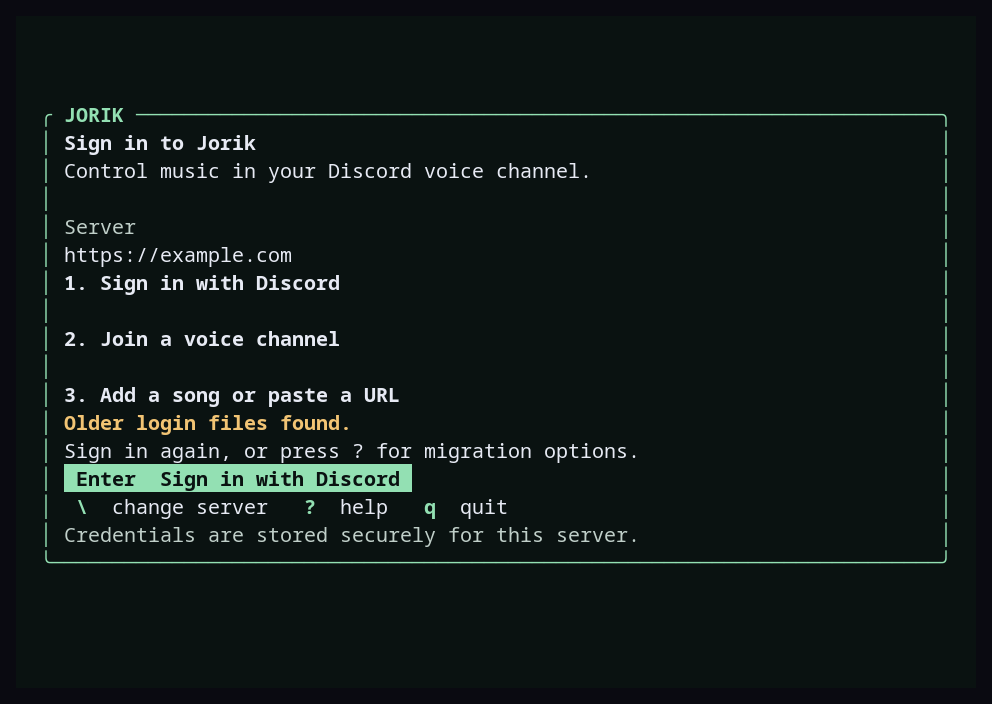
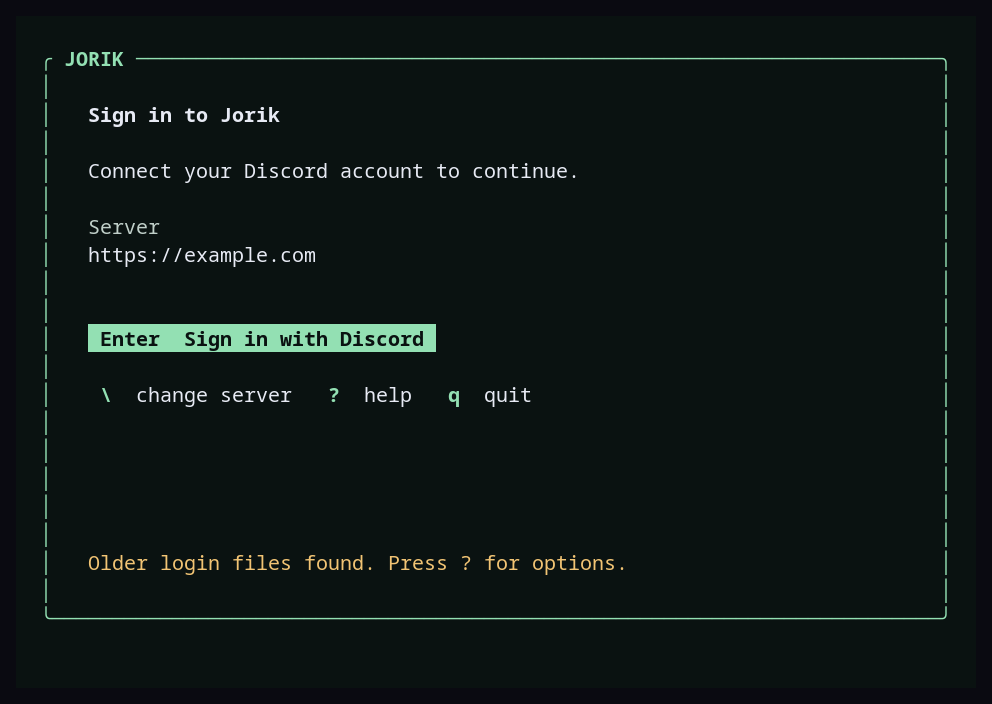
Give the sign-in screen explicit spacing and a simpler hierarchy

diff --git a/src/tui/views.rs b/src/tui/views.rs
@@ -3,63 +3,103 @@ use super::design::{fit_text, key_hint, panel, prepare_modal, single_line};
 use super::*;
 
 pub(super) fn welcome(f: &mut Frame, app: &App, theme: &Theme) {
-    let area = popup_rect(76, 17, f.area());
-    let block = panel(" JORIK ", theme, true);
+    let expanded = f.area().width >= 64 && f.area().height >= 20;
+    let height = if app.auth_info_text.is_some() { 24 } else { 21 };
+    let area = popup_rect(76, height, f.area());
+    let padding = if expanded { 3 } else { 1 };
+    let block = panel(" JORIK ", theme, true).padding(ratatui::widgets::Padding::new(
+        padding,
+        padding,
+        u16::from(expanded),
+        u16::from(expanded),
+    ));
     let inner = block.inner(area);
     f.render_widget(block, area);
-    if inner.height < 11 {
+    if !expanded {
+        let has_room = inner.height >= 9;
         let rows = Layout::vertical([
             Constraint::Length(1),
+            Constraint::Length(u16::from(has_room)),
+            Constraint::Length(1),
             Constraint::Min(0),
-            Constraint::Length(2),
+            Constraint::Length(u16::from(has_room)),
+            Constraint::Length(1),
+            Constraint::Length(u16::from(has_room)),
+            Constraint::Length(1),
         ])
         .split(inner);
         f.render_widget(
-            Paragraph::new(fit_text(&single_line(&app.base_url, app), inner.width))
-                .style(Style::default().fg(theme.text())),
+            Paragraph::new("Sign in to Jorik").style(Style::default().fg(theme.text()).bold()),
             rows[0],
+        );
+        f.render_widget(
+            Paragraph::new(fit_text(&single_line(&app.base_url, app), inner.width))
+                .style(Style::default().fg(theme.text_secondary)),
+            rows[2],
         );
         let status = app
             .auth_info_text
             .as_deref()
             .unwrap_or(if app.legacy_credentials {
-                "Older login found. Sign in again, or press ? for migration help."
+                "Older login found. Press ? for options."
             } else {
-                "Sign in with Discord, then join a voice channel to play music."
+                "Connect your Discord account to continue."
             });
         f.render_widget(
             Paragraph::new(crate::output::safe_text(status, app.token.as_deref()))
                 .wrap(Wrap { trim: true })
                 .style(Style::default().fg(theme.text())),
-            rows[1],
+            rows[3],
         );
         f.render_widget(
-            Paragraph::new(vec![
-                super::design::primary_action(
-                    if app.is_loading { "Esc" } else { "Enter" },
-                    if app.is_loading {
-                        "cancel login"
-                    } else {
-                        "sign in"
-                    },
-                    theme,
-                ),
-                Line::from(Span::styled(
-                    "\\ server · q quit",
-                    Style::default().fg(theme.text()),
-                )),
-            ]),
-            rows[2],
+            Paragraph::new(super::design::primary_action(
+                if app.is_loading { "Esc" } else { "Enter" },
+                if app.is_loading {
+                    "cancel login"
+                } else {
+                    "sign in"
+                },
+                theme,
+            )),
+            rows[5],
+        );
+        f.render_widget(
+            Paragraph::new(if app.is_loading {
+                "q quit"
+            } else if inner.width < 28 {
+                "? help · q quit"
+            } else {
+                "\\ server · ? help · q quit"
+            })
+            .style(Style::default().fg(theme.text())),
+            rows[7],
         );
         return;
     }
+
+    let has_status = app.auth_info_text.is_some();
     let show_legacy = app.legacy_credentials && !app.is_loading;
+    // Gaps are independent layout rows, never an incidental side effect of wrapping.
     let rows = Layout::vertical([
-        Constraint::Length(3),
-        Constraint::Length(2),
-        Constraint::Min(0),
-        Constraint::Length(if show_legacy { 2 } else { 0 }),
-        Constraint::Length(3),
+        Constraint::Length(3), // title, blank line, short explanation
+        Constraint::Length(1),
+        Constraint::Length(2), // server label and URL
+        Constraint::Length(if has_status { 1 } else { 2 }),
+        if has_status {
+            Constraint::Min(1)
+        } else {
+            Constraint::Length(0)
+        },
+        Constraint::Length(u16::from(has_status)),
+        Constraint::Length(1), // primary action
+        Constraint::Length(1),
+        Constraint::Length(1), // secondary actions
+        if has_status {
+            Constraint::Length(1)
+        } else {
+            Constraint::Min(2)
+        },
+        Constraint::Length(u16::from(show_legacy)),
     ])
     .split(inner);
     f.render_widget(
@@ -68,8 +108,9 @@ pub(super) fn welcome(f: &mut Frame, app: &App, theme: &Theme) {
                 "Sign in to Jorik",
                 Style::default().fg(theme.text()).bold(),
             )),
+            Line::from(""),
             Line::from(Span::styled(
-                "Control music in your Discord voice channel.",
+                "Connect your Discord account to continue.",
                 Style::default().fg(theme.text()),
             )),
         ]),
@@ -82,80 +123,53 @@ pub(super) fn welcome(f: &mut Frame, app: &App, theme: &Theme) {
                 Style::default().fg(theme.text_secondary),
             )),
             Line::from(Span::styled(
-                fit_text(&single_line(&app.base_url, app), rows[1].width),
+                fit_text(&single_line(&app.base_url, app), rows[2].width),
                 Style::default().fg(theme.text()),
             )),
         ]),
-        rows[1],
+        rows[2],
     );
     if let Some(status) = &app.auth_info_text {
         f.render_widget(
             Paragraph::new(crate::output::safe_text(status, app.token.as_deref()))
                 .wrap(Wrap { trim: false })
                 .style(Style::default().fg(theme.text())),
-            rows[2],
-        );
-    } else {
-        let lines = [
-            "1. Sign in with Discord",
-            "",
-            "2. Join a voice channel",
-            "",
-            "3. Add a song or paste a URL",
-        ]
-        .into_iter()
-        .map(|line| Line::from(Span::styled(line, Style::default().fg(theme.text()).bold())))
-        .collect::<Vec<_>>();
-        f.render_widget(Paragraph::new(lines), rows[2]);
-    }
-    if show_legacy {
-        f.render_widget(
-            Paragraph::new(vec![
-                Line::from(Span::styled(
-                    "Older login files found.",
-                    Style::default().fg(theme.warning()).bold(),
-                )),
-                Line::from(Span::styled(
-                    "Sign in again, or press ? for migration options.",
-                    Style::default().fg(theme.text()),
-                )),
-            ]),
-            rows[3],
+            rows[4],
         );
     }
-    let secondary = if app.is_loading {
+    f.render_widget(
+        Paragraph::new(super::design::primary_action(
+            if app.is_loading { "Esc" } else { "Enter" },
+            if app.is_loading {
+                "Cancel login"
+            } else {
+                "Sign in with Discord"
+            },
+            theme,
+        )),
+        rows[6],
+    );
+    let shortcuts = if app.is_loading {
         vec![("q", "quit")]
     } else {
         vec![("\\", "change server"), ("?", "help"), ("q", "quit")]
     };
     f.render_widget(
-        Paragraph::new(vec![
-            super::design::primary_action(
-                if app.is_loading { "Esc" } else { "Enter" },
-                if app.is_loading {
-                    "Cancel login"
-                } else {
-                    "Sign in with Discord"
-                },
-                theme,
-            ),
-            Line::from(
-                secondary
-                    .iter()
-                    .flat_map(|(key, label)| key_hint(key, label, theme))
-                    .collect::<Vec<_>>(),
-            ),
-            Line::from(Span::styled(
-                if app.is_loading {
-                    "Waiting for your browser…"
-                } else {
-                    "Credentials are stored securely for this server."
-                },
-                Style::default().fg(theme.text_secondary),
-            )),
-        ]),
-        rows[4],
+        Paragraph::new(Line::from(
+            shortcuts
+                .iter()
+                .flat_map(|(key, label)| key_hint(key, label, theme))
+                .collect::<Vec<_>>(),
+        )),
+        rows[8],
     );
+    if show_legacy {
+        f.render_widget(
+            Paragraph::new("Older login files found. Press ? for options.")
+                .style(Style::default().fg(theme.warning())),
+            rows[10],
+        );
+    }
 }
 
 pub(super) fn sign_in_help(f: &mut Frame, app: &mut App, theme: &Theme) {

diff --git a/src/tui/polish_tests.rs b/src/tui/polish_tests.rs
@@ -103,6 +103,7 @@ fn polished_screen_snapshots() {
     app.theme = "Emerald".into();
     app.legacy_credentials = true;
     snapshot("welcome-legacy-80x24", &mut app, 80, 24);
+    snapshot("welcome-legacy-98x24", &mut app, 98, 24);
     app.open_overlay(View::Help);
     snapshot("sign-in-help-80x24", &mut app, 80, 24);
 }
@@ -226,7 +227,8 @@ fn legacy_warning_does_not_replace_onboarding_or_expose_commands_until_help() {
     app.theme = "Emerald".into();
     let terminal = draw(&mut app, 80, 24);
     let screen = text(&terminal);
-    assert!(screen.contains("Sign in to Jorik") && screen.contains("1. Sign in with Discord"));
+    assert!(screen.contains("Sign in to Jorik") && screen.contains("Connect your Discord account"));
+    assert!(!screen.contains("1. Sign in") && !screen.contains("3. Add a song"));
     assert!(screen.contains("Older login files found"));
     assert!(!screen.contains("auth migrate"));
     let theme = get_theme(&app.theme);
@@ -251,11 +253,39 @@ fn legacy_warning_does_not_replace_onboarding_or_expose_commands_until_help() {
 }
 
 #[test]
+fn welcome_sections_have_real_blank_rows_at_screenshot_sizes() {
+    for (width, height) in [(80, 24), (98, 24), (80, 20)] {
+        let mut app = app();
+        app.view = View::LoginRequired;
+        app.legacy_credentials = true;
+        let terminal = draw(&mut app, width, height);
+        let screen = text(&terminal);
+        let rows = screen.lines().collect::<Vec<_>>();
+        let at = |label: &str| rows.iter().position(|line| line.contains(label)).unwrap();
+        let blank = |row: usize| rows[row].chars().all(|c| c.is_whitespace() || c == '│');
+        let title = at("Sign in to Jorik");
+        let server = at("https://example.com");
+        let action = at("Enter");
+        let shortcuts = at("change server");
+        let notice = at("Older login files found");
+        assert!(blank(title + 1));
+        assert!(blank(server + 1) && blank(server + 2));
+        assert!(action >= server + 3 && blank(action + 1));
+        assert!(shortcuts >= action + 2 && blank(shortcuts + 1));
+        assert!(notice >= shortcuts + 2);
+    }
+}
+
+#[test]
 fn compact_sign_in_and_confirmation_keep_the_actions_visible() {
     let mut app = app();
     app.view = View::LoginRequired;
-    let screen = text(&draw(&mut app, 40, 12));
-    assert!(screen.contains("Enter") && screen.contains("sign in") && screen.contains("q quit"));
+    for (width, height) in [(40, 12), (24, 8)] {
+        let screen = text(&draw(&mut app, width, height));
+        assert!(
+            screen.contains("Enter") && screen.contains("sign in") && screen.contains("q quit")
+        );
+    }
     app.view = View::ConfirmClear;
     let screen = text(&draw(&mut app, 24, 8));
     assert!(screen.contains("keep queue") && screen.contains("clear queue"));

diff --git a/CHANGELOG.md b/CHANGELOG.md
@@ -3,6 +3,7 @@
 ## 0.5.0-dev.1 (unreleased)
 
 ### Visual design and keyboard UX
+- Space the sign-in screen with explicit blank rows and wider interior padding; remove the repeated checklist and isolate the legacy notice from the action keys.
 - Raise small-text contrast across themes, soften Emerald accents, and use a filled sign-in action with bright, plain-language instructions.
 - Keep legacy-login notices separate from onboarding; expose safe migration instructions through sign-in help instead of a dense warning paragraph.
 - Introduce a shared visual language: layered dark surfaces, rounded panels, focus rings, status badges, and key hints without requiring icon fonts.
@@ -12,7 +13,7 @@
 - Keep blank track submissions open with inline validation.
 - Add bounded, accurately wrapped lyrics scrolling, refresh, request coalescing, and track-change invalidation.
 - Preserve HTTP playback state when a WebSocket upgrade fails; invalidate it only when an established live connection disconnects.
-- Add deterministic UI previews, five rendering snapshots, compact-screen regression tests, and real 80×24 PTY interaction validation.
+- Add deterministic UI previews, responsive rendering snapshots, compact-screen regression tests, and real 80×24 PTY interaction validation.
 
 ### Credential and login hardening
 - Store authentication data in Windows Credential Manager, macOS Keychain, or Linux Secret Service; never silently fall back to plaintext.

diff --git a/README.md b/README.md
@@ -44,7 +44,9 @@ columns, explicit focus rings, and context-aware keyboard hints. Wide terminals
 also show the spectrum; compact terminals prioritize playback and queue browsing.
 Dialogs keep your place in the underlying screen and return there when dismissed.
 Small text uses higher-contrast colors; the welcome screen keeps migration details
-under `?` help rather than replacing the sign-in instructions.
+under `?` help rather than replacing the sign-in instructions. The sign-in card
+uses separate, padded sections for the server, primary action, shortcuts, and
+legacy notice; repeated onboarding steps are kept off this screen.
 
 ```sh
 cargo run -- tui
